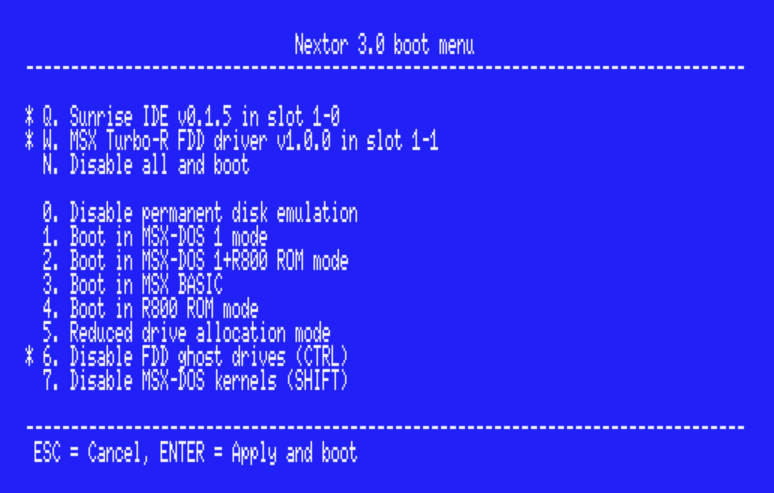
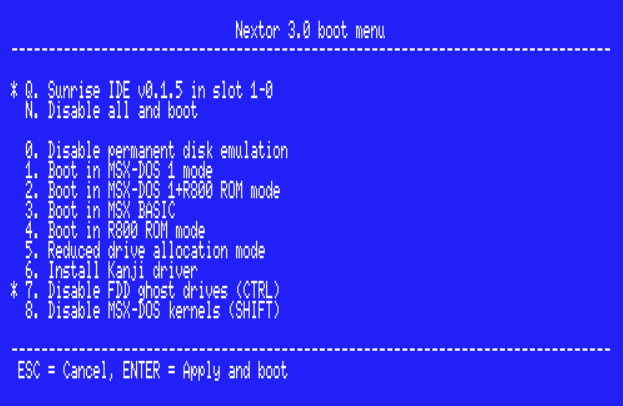
Add the "6" boot key: install the Kanji driver at boot time
Pressing 6 while booting makes the kernel do what disks patched with
KMODE.COM did: "CALL KANJI:CALL ANK" is executed through the BASIC
interpreter before the boot sector / NEXTOR.SYS are read, so the Kanji
driver gets installed (and its work area reserved) while the screen is
left in ANK mode; then the normal boot sequence continues. It works in
both MSX-DOS 2 and MSX-DOS 1 modes, and a missing Kanji driver is
silently ignored.

The new KANJI_BOOT routine lives in drv.mac, which is linked at 7700h
into both bank 0 and bank 3, so the same code serves both boot paths
(NO_TEXT in init.mac and A59F3 in dos1ker.mac). It hooks H.ERRO with a
far call into the kernel and runs the statements via NEWSTT; the
trailing ERROR statement (or the error raised by CALL KANJI itself)
brings control back, the hook is restored, and the boot resumes at the
caller's KANJI_BOOT_RESUME label. If the driver lowered HIMEM, HIMSAV
(F349h, also the DOS 1 "disk system bottom") is lowered by the same
amount so neither the DOS environment nor Disk BASIC reuse that memory.
BASIC must run with bank 0/3 paged (the 4004h statement entry of every
bank is bank 0's), which is why the routine can't live in another bank.

The key gets the same support as the existing ones:

- Boot menu: new "6. Install Kanji driver" entry; CTRL and SHIFT move
  to 7 and 8.
- One-time RAM boot keys / NEXBOOT: byte 0 bit 6, already what NEXBOOT
  writes for "6".
[…]

Changed region(s): [[0.0, 0.1773, 0.5795, 0.798], [0.0305, 0.8571, 0.9759, 0.9458], [0.0305, 0.0296, 0.9759, 0.1478]]

diff --git a/docker/README.md b/docker/README.md
@@ -6,7 +6,7 @@ A Docker image that bundles everything needed to build Nextor, develop Nextor dr
 - **[SDCC](https://sdcc.sourceforge.net/)** - the Z80 C compiler (Debian's `sdcc` 4.2.0).
 - **mknexrom** - combines a kernel base file with a driver into a ROM.
 - **make**, **binutils** (`objcopy`), **bash**, **mtools** (`mformat`/`mcopy`, used to build the tools disk image), **zip** (used to build the tools zip archive).
-- The **Nextor SDK** (asm + C, including ready to copy **driver/tool project templates**) and the **six kernel base-file variants** built from this repository's source.
+- The **Nextor SDK** (asm + C, including ready to copy **driver/tool project templates**) and the **twelve kernel base-file variants** built from this repository's source.
 
 **Platform:** the image is **multi-arch** - `linux/amd64` and `linux/arm64` (native on Apple Silicon and arm64 servers). Everything below assumes you have Docker installed.
 
@@ -224,7 +224,7 @@ The easiest way is the **`docker/make.sh`** wrapper: it mounts the root for you,
 git clone https://github.com/Konamiman/Nextor && cd Nextor
 
 docker/make.sh kernel              # build the default kernel base file
-docker/make.sh kernel everything   # all six kernel variants
+docker/make.sh kernel everything   # all twelve kernel variants
 docker/make.sh kernel clean
 docker/make.sh nextor_sys          # build NEXTOR.SYS
 docker/make.sh all                 # one variant of every part
@@ -239,14 +239,14 @@ docker/make.sh all distclean       # remove every build artifact, incl. bin/
 
 | `docker/make.sh ...` | Builds |
 |---|---|
-| `kernel` | the kernel base file(s) → `bin/kernel-base/Nextor-<version>.base[<suffix>].dat`; `everything` = all six variants |
+| `kernel` | the kernel base file(s) → `bin/kernel-base/Nextor-<version>.base[<suffix>].dat`; `everything` = all twelve variants |
 | `nextor_sys` | `NEXTOR.SYS` (+ `.japanese`) |
 | `tools` | all command-line `.COM` utilities - both the assembler tools (`source/tools`) and the C tools (`source/tools/C`) |
 | `tools/C` | just the C tools |
-| `drivers` | the standalone ROMs (ASCII8 + ASCII16) → `bin/drivers/`; `everything` = all six variants of each; `ram-example` = the opt-in example RAM disk driver (`.drv` → `bin/drivers/`) |
+| `drivers` | the standalone ROMs (ASCII8 + ASCII16) → `bin/drivers/`; `everything` = all twelve variants of each; `ram-example` = the opt-in example RAM disk driver (`.drv` → `bin/drivers/`) |
 | `all` | the umbrella Makefile: bare = one variant of every part; `everything` = all kernel + standalone-ROM variants + NEXTOR.SYS + all tools; `tools-disk` = the tools disk image; `tools-zip` = the tools zip archive; `tools-all` = both; `clean` / `distclean` |
 
-`make.sh all everything` builds the complete release matrix: all six kernel base variants, both standalone ROMs (ASCII8/ASCII16) for each of those six variants, NEXTOR.SYS, and every command-line tool. `make.sh all distclean` removes all of that plus the source-tree intermediates.
+`make.sh all everything` builds the complete release matrix: all twelve kernel base variants, both standalone ROMs (ASCII8/ASCII16) for each of those twelve variants, NEXTOR.SYS, and every command-line tool. `make.sh all distclean` removes all of that plus the source-tree intermediates.
 
 `make.sh all tools-disk` builds NEXTOR.SYS and all the command line tools, then packs them into `bin/tools/nextor.dsk`, a 360K FAT12 disk image created with `mformat`/`mcopy`, carrying the same MSX-DOS 2 style boot sector that the built-in FORMAT command creates (so it boots in MSX-DOS 1 mode too). Files not built by this repository, like `COMMAND2.COM` (needed for the disk to be bootable), are added with the `EXTRA_FILES` variable, e.g. `EXTRA_FILES=COMMAND2.COM,MSXDOS.SYS,COMMAND.COM`; relative paths are resolved against the repository root (see the `tools-disk` target in `source/tools/Makefile` for the details).
 
@@ -298,7 +298,8 @@ Everything lives under `/opt/nextor`:
 │   ├── kernel_base.SHIFT_INV.dat
 │   ├── kernel_base.CTRL_INV.dat
 │   ├── kernel_base.NO_UNDOC.SHIFT_INV.dat
-│   └── kernel_base.NO_UNDOC.CTRL_INV.dat
+│   ├── kernel_base.NO_UNDOC.CTRL_INV.dat
+│   └── kernel_base[<variant>].KANJI_INV.dat the same six, "6" key inverted
 ├── sdk/            asm/ (constants, macros, code, chgbnk), C/ (includes, code)
 │                   and templates/ (the driver/ and tool/ project templates)
 └── manifest.json   every baked-in component version (JSON)
@@ -314,14 +315,14 @@ Recipes (and you) can rely on these being set inside the container:
 |---|---|---|
 | `NEXTOR_VERSION` | e.g. `3.0.0-beta1` | the kernel version baked in |
 | `NEXTOR_BASE` | `.../kernel_base/kernel_base.dat` | default base file for `mknexrom` |
-| `NEXTOR_KERNEL_BASE_DIR` | `.../kernel_base` | directory of the six base files |
+| `NEXTOR_KERNEL_BASE_DIR` | `.../kernel_base` | directory of the twelve base files |
 | `NEXTOR_SDK` | `.../sdk` | SDK root (pass to N80 as `--include-directory`) |
 | `NEXTOR_SDK_ASM` / `NEXTOR_SDK_C` | `.../sdk/asm`, `.../sdk/C` | asm / C subtrees |
 | `N80` `LK80` `LB80` `MKNEXROM` `SDCC` | absolute tool paths | for Makefiles that prefer explicit paths |
 
 ### Variants
 
-The six base file **variants** differ by two independent axes:
+The twelve base file **variants** differ by three independent axes:
 
 | Suffix | Meaning |
 |---|---|
@@ -329,10 +330,11 @@ The six base file **variants** differ by two independent axes:
 | `.NO_UNDOC` | no undocumented opcodes - safe on Z180-based MSX (e.g. Victor HC-95) |
 | `.SHIFT_INV` | SHIFT-at-boot behaviour inverted |
 | `.CTRL_INV` | CTRL-at-boot behaviour inverted |
+| `.KANJI_INV` | "6"-at-boot behaviour inverted: the Kanji driver is installed at boot time unless "6" is pressed |
 
-(`NO_UNDOC` combines with either key inversion, giving the two `.NO_UNDOC.*_INV` files.)
+(`NO_UNDOC` combines with either key inversion, giving the two `.NO_UNDOC.*_INV` files; and each of these six files exists with and without the `.KANJI_INV` suffix, which always goes last.)
 
-**Note:** The `.SHIFT_INV` / `.CTRL_INV` variants are a convenience: `mknexrom` can flip the boot keys on the *default* (or `.NO_UNDOC`) base at ROM-assembly time with `/k:<hex>` (LSB = byte 0, MSB = byte 1; e.g. `/k:1002` inverts SHIFT and "1"). The `NO_UNDOC` axis is different: it changes the assembled code, so it genuinely requires its own base file.
+**Note:** The `.SHIFT_INV` / `.CTRL_INV` / `.KANJI_INV` variants are a convenience: `mknexrom` can flip the boot keys on the *default* (or `.NO_UNDOC`) base at ROM-assembly time with `/k:<hex>` (LSB = byte 0, MSB = byte 1; e.g. `/k:1002` inverts SHIFT and "1", `/k:0040` inverts "6"). The `NO_UNDOC` axis is different: it changes the assembled code, so it genuinely requires its own base file.
 
 ### Naming conventions
 
@@ -368,7 +370,7 @@ docker build -f docker/Dockerfile \
 
 Why pass `NEXTOR_VERSION` at all? It stamps the version into the **[OCI labels](https://github.com/opencontainers/image-spec/blob/main/annotations.md)** (standardised key-value metadata baked into the image and readable later with `docker inspect`) and the baked **`NEXTOR_VERSION`** env var. Those are `LABEL`/`ENV` instructions, which accept only literals or build args - they can't `cat` the file the way a `RUN` can (`manifest.json` *is* written by a `RUN`, and the SDK's `nextor-kernel-version.txt` is produced by the kernel build). That's the whole reason the value is injected from outside, and why the wrapper exists. It defaults to `unknown` if omitted.
 
-The build is fully reproducible from source: it downloads pinned Nestor80 releases (per target arch), installs SDCC 4.2.0 from Debian's apt, compiles `mknexrom` from `buildtools/sources`, and builds all six kernel base files via `make -C source/kernel everything`.
+The build is fully reproducible from source: it downloads pinned Nestor80 releases (per target arch), installs SDCC 4.2.0 from Debian's apt, compiles `mknexrom` from `buildtools/sources`, and builds all twelve kernel base files via `make -C source/kernel everything`.
 
 ### Build arguments
 
@@ -400,7 +402,7 @@ docker/test.sh                 # local 'nextor-dev' build, else the official lat
 docker/test.sh my-other-tag    # or any explicit tag
 ```
 
-`test.sh` runs inside the container as a login shell and checks: every tool runs (incl. a real N80→LK80 link and an `sdcc -mz80` compile), all six base variants are present, the baked `NEXTOR_VERSION` matches the built kernel and `manifest.json`, and both project templates (`driver`, `tool`) build end-to-end when copied verbatim. It exits non-zero on any failure, so it doubles as a CI gate - and indeed the **`Image CI`** workflow (`.github/workflows/image-ci.yaml`) runs exactly this (`build.sh` → `test.sh`, no push) on every pull request that touches an image input, so the build and the 14 checks are verified before merge.
+`test.sh` runs inside the container as a login shell and checks: every tool runs (incl. a real N80→LK80 link and an `sdcc -mz80` compile), all twelve base variants are present, the baked `NEXTOR_VERSION` matches the built kernel and `manifest.json`, and both project templates (`driver`, `tool`) build end-to-end when copied verbatim. It exits non-zero on any failure, so it doubles as a CI gate - and indeed the **`Image CI`** workflow (`.github/workflows/image-ci.yaml`) runs exactly this (`build.sh` → `test.sh`, no push) on every pull request that touches an image input, so the build and the 14 checks are verified before merge.
 
 **2. Move it to another machine** without a registry, via a tarball:
 

diff --git a/docs/Nextor 3.0 What's New.md b/docs/Nextor 3.0 What's New.md
@@ -14,19 +14,21 @@
 
 [2.4. The boot menu](#24-the-boot-menu)
 
-[2.5. One drive letter per active partition/offline device at boot](#25-one-drive-letter-per-active-partitionoffline-device-at-boot)
+[2.5. The Kanji driver can be installed at boot time](#25-the-kanji-driver-can-be-installed-at-boot-time)
 
-[2.6. Drivers are now distributed separately](#26-drivers-are-now-distributed-separately)
+[2.6. One drive letter per active partition/offline device at boot](#26-one-drive-letter-per-active-partitionoffline-device-at-boot)
 
-[2.7. Z180-compatible builds](#27-z180-compatible-builds)
+[2.7. Drivers are now distributed separately](#27-drivers-are-now-distributed-separately)
 
-[2.8. Better boot error messages](#28-better-boot-error-messages)
+[2.8. Z180-compatible builds](#28-z180-compatible-builds)
 
-[2.9. MSX-DOS 1 mode can boot from any drive](#29-msx-dos-1-mode-can-boot-from-any-drive)
+[2.9. Better boot error messages](#29-better-boot-error-messages)
 
-[2.10. New and changed tools and commands](#210-new-and-changed-tools-and-commands)
+[2.10. MSX-DOS 1 mode can boot from any drive](#210-msx-dos-1-mode-can-boot-from-any-drive)
 
-[2.11. The new COMMAND3.COM command interpreter](#211-the-new-command3com-command-interpreter)
+[2.11. New and changed tools and commands](#211-new-and-changed-tools-and-commands)
+
+[2.12. The new COMMAND3.COM command interpreter](#212-the-new-command3com-command-interpreter)
 
 [3. Information for application developers](#3-information-for-application-developers)
 
@@ -88,31 +90,35 @@ A brand new driver for the floppy disk controller built into the MSX Turbo-R com
 
 Pressing the N key while the machine boots opens the new boot menu, which lets you enable or disable each of the Nextor 3 kernels present in the machine, and turn the numeric boot keys on or off, without having to keep the corresponding keys pressed while booting. See _[2.10. Boot keys and the boot menu](Nextor%203.0%20User%20Manual.md#210-boot-keys-and-the-boot-menu)_.
 
-### 2.5. One drive letter per active partition/offline device at boot
+### 2.5. The Kanji driver can be installed at boot time
+
+A new boot key, 6, makes Nextor install the Kanji driver (the equivalent of `CALL KANJI` followed by `CALL ANK` in BASIC, so the driver is installed but the screen is left in ANK mode) before the DOS environment is loaded, in both MSX-DOS 2 and MSX-DOS 1 modes; this is what disks patched with `KMODE.COM` did. Like the other boot keys, it can be selected in the boot menu, set via the one-time boot keys mechanism, and inverted in the ROM (so that the driver is installed unless the key is pressed), either with `mknexrom /k:0040` or by using one of the new "KANJI_INV" kernel variants. See _[2.10. Boot keys and the boot menu](Nextor%203.0%20User%20Manual.md#210-boot-keys-and-the-boot-menu)_.
+
+### 2.6. One drive letter per active partition/offline device at boot
 
 At boot time Nextor 2 assigned one drive letter per storage device found, mapped to its first suitable partition. Nextor 3 instead assigns one drive letter to every FAT12 or FAT16 partition flagged as active on every device (in MSX-DOS 1 mode, only to MSX-DOS 1 compatible partitions: FAT12 with three or less sectors per FAT). A device that has suitable partitions but none of them flagged as active still gets one drive letter, mapped to its first suitable partition, as in Nextor 2.
 
 The handling of offline devices at boot has been revised too: removable devices get a drive letter even if no medium is inserted, while fixed devices that are offline don't get any. Devices that are online but don't hold any mappable partition also get one drive letter. Drives assigned in these last two ways have no partition attached initially: accessing them returns an error, and a partition is searched automatically on each access until one is found (e.g. after the device is partitioned, or after a medium is inserted). See _[3.2. Booting Nextor](Nextor%203.0%20User%20Manual.md#32-booting-nextor)_.
 
-### 2.6. Drivers are now distributed separately
+### 2.7. Drivers are now distributed separately
 
 The Nextor repository no longer contains the drivers for specific hardware, and no longer builds ready-to-use kernel ROMs for them: it builds only the Nextor kernel base file. Drivers are now developed and distributed independently, combining the driver code with the kernel base file to produce the final ROM; a RAM-loadable driver file, when applicable, is instead obtained by assembling the driver code on its own.
 
 The drivers that were part of Nextor 2 now live in their own git repositories, but driver developers are free to distribute their work in any other way (a dedicated web site, plain downloadable binaries, etc.). The list of known drivers and where to get each of them is maintained in _[Nextor 3.0 Known Drivers](Nextor%203.0%20Known%20Drivers.md)_.
 
-### 2.7. Z180-compatible builds
+### 2.8. Z180-compatible builds
 
 The kernel can now be built with the `NO_UNDOC_CPU_INSTRUCTIONS` option, which avoids all the undocumented Z80 instructions so that the resulting kernel also works on machines with a Z180 processor. See [the main README file](../README.md) for how to build the kernel.
 
-### 2.8. Better boot error messages
+### 2.9. Better boot error messages
 
 When the DOS environment fails to load at boot time, NEXTOR.SYS no longer keeps asking the user to insert the proper disk or drops silently into BASIC: a proper error message, such as "Command interpreter not found" or "Incompatible DOS version", is printed as part of the initial BASIC prompt. Application programs can take advantage of the underlying mechanism too; see _[7.3. DOS environment load errors](Nextor%203.0%20Programmers%20Reference.md#73-dos-environment-load-errors)_ in the programmers reference.
 
-### 2.9. MSX-DOS 1 mode can boot from any drive
+### 2.10. MSX-DOS 1 mode can boot from any drive
 
 The original MSX-DOS 1 kernel only ever tried to boot from drive A:, so if the disk in A: wasn't bootable the system dropped to Disk BASIC, and `CALL SYSTEM` behaved the same way. When booting in MSX-DOS 1 mode, Nextor 3 instead scans all the drives in order and boots from the first one holding a disk with a valid boot sector; that drive becomes the default drive, so `MSXDOS.SYS` and `COMMAND.COM` are loaded from it. This matters in Nextor because the internal floppy disk drive isn't necessarily drive A:, e.g. when other storage devices take the first drive letters. See _[3.2.1. Booting in DOS 1 mode](Nextor%203.0%20User%20Manual.md#321-booting-in-dos-1-mode)_ in the user manual.
 
-### 2.10. New and changed tools and commands
+### 2.11. New and changed tools and commands
 
 * New [`DRVROP.COM`](Nextor%203.0%20User%20Manual.md#3413-drvrop-the-driver-operations-tool) ("driver operations") command line tool, and new [`CALL IDRIVER`](Nextor%203.0%20User%20Manual.md#3612-the-call-idriver-command) and [`CALL UDRIVER`](Nextor%203.0%20User%20Manual.md#3613-the-call-udriver-command) BASIC commands: they install and uninstall drivers loaded in RAM (see _[2.2. Drivers loadable in RAM](#22-drivers-loadable-in-ram)_).
 
@@ -122,7 +128,7 @@ The original MSX-DOS 1 kernel only ever tried to boot from drive A:, so if the d
 
 * Since logical units don't exist anymore, the tools and commands that used to take or display a logical unit number no longer do.
 
-### 2.11. The new COMMAND3.COM command interpreter
+### 2.12. The new COMMAND3.COM command interpreter
 
 Nextor 3 introduces its own command interpreter: `COMMAND3.COM`. It is based on COMMAND 2.44 (so everything you know from it applies: internal commands, aliases, command line editing and history, batch file enhancements, the HELP command, etc.) but adds new features specific to Nextor 3:
 

diff --git a/docs/Nextor 3.0 User Manual.md b/docs/Nextor 3.0 User Manual.md
@@ -329,6 +329,8 @@ The boot time configuration of Nextor can be modified by keeping pressed some sp
 
 *  **5**: Make Nextor assign only one drive letter per Nextor driver, instead of the normal behavior of assigning one drive per suitable active partition found (see _[3.2. Booting Nextor](#32-booting-nextor)_). Drivers are informed of this request and could act on it, see _[4.5.3. Driver query 3: Get driver initialization parameters](Nextor%203.0%20Driver%20Development%20Guide.md#453-driver-query-3-get-driver-initialization-parameters)_.
 
+*  **6**: Install the Kanji driver before loading the DOS environment, in the same way as disks patched with the `KMODE.COM` tool did: the equivalent of `CALL KANJI` followed by `CALL ANK` is executed in BASIC, so the driver is installed (and the memory it needs is reserved, which is very difficult to do once the DOS environment is loaded) but the screen is left in ANK mode. This works in both MSX-DOS 2 and MSX-DOS 1 modes, and the boot process just continues normally if the computer doesn't have a Kanji driver (the failure of `CALL KANJI` is silently ignored).
+
 * **CTRL**: The state of this key is passed to MSX-DOS kernels on initialization. Typically this will cause the internal floppy disk drive to disable its second "ghost" drive, freeing some extra memory, especially in MSX-DOS 1 mode. 
 
 *  **SHIFT**: Prevent MSX-DOS kernels from booting, but allow Nextor kernels to boot normally. This is useful to disable the internal floppy disk drive in order to get some extra TPA memory, especially in MSX-DOS 1 mode.
@@ -348,6 +350,8 @@ Example: if your Nextor kernel is in primary slot 1, press Q to prevent it from 
 
 ![Nextor boot menu](img/BootMenu.png)
 
+In the menu, the numeric keys 0 to 6 toggle the boot keys with the same numbers, while 7 toggles the CTRL key and 8 toggles the SHIFT key.
+
 If you want to completely disable all Nextor kernels, press N at boot time to show the menu, release it, and press it again. This is useful when the kernel ROM must be updated from a storage device controlled by a non-Nextor controller (e.g. the internal floppy disk drive).
 
 #### 2.10.1. Boot key inverters
@@ -360,7 +364,7 @@ Here's how bits are assigned to each key:
 
 * First byte (offset 512):
 
-  * Bits 1 to 5: keys 1 to 5
+  * Bits 1 to 6: keys 1 to 6
 
 * Second byte (offset 513):
 
@@ -376,14 +380,15 @@ If you use `mknexrom` you need to supply a 16 bit hexadecimal value with the `/k
   * 3: 0008
   * 4: 0010
   * 5: 0020
+  * 6: 0040
   * CTRL: 2000
   * SHIFT: 1000
 
-e.g. `/k:3002` to invert the 1, CTRL and SHIFT keys.
+e.g. `/k:3002` to invert the 1, CTRL and SHIFT keys, or `/k:0040` to invert the 6 key (so that the Kanji driver is installed at boot time unless the key is pressed).
 
 The boot menu respects the key inversion encoded in the ROM, and will show inverted keys as already switched on (you can of course switch them off before continuing with the boot). For example, the boot menu screenshot displayed above is for a ROM that has the CTRL key inverted.
 
-The releases section of the Nextor repository and the development Docker image contain "CTRL_INV" and "SHIFT_INV" variants of the kernel base file; this is for convenience, especially for driver developers that don't use `mknexrom` for the build process.
+The releases section of the Nextor repository and the development Docker image contain "CTRL_INV" and "SHIFT_INV" variants of the kernel base file (with the CTRL and SHIFT keys inverted, respectively), as well as "KANJI_INV" variants (with the 6 key inverted) of these and of the non-inverted files; this is for convenience, especially for driver developers that don't use `mknexrom` for the build process.
 
 #### 2.10.2. One-time boot keys
 

diff --git a/README.md b/README.md
@@ -61,9 +61,9 @@ There are a number of makefiles that will take care of building the different co
 | What do you want to build? | Makefile directory | Target | Result |
 | --- | --- | --- | --- |
 | Kernel base file (the input for `mknexrom` to produce complete kernel ROMs) | `source/kernel` | none | `bin/kernel-base/Nextor-<version>.base.dat` |
-| Kernel base file, all six build variants¹ | `source/kernel` | `everything` | `bin/kernel-base/Nextor-<version>.base[.<variant>].dat`, six files |
+| Kernel base file, all twelve build variants¹ | `source/kernel` | `everything` | `bin/kernel-base/Nextor-<version>.base[.<variant>].dat`, twelve files |
 | Standalone ROMs² (ASCII8 and ASCII16) | `source/drivers` | none | `bin/drivers/Nextor-<version>.StandaloneASCII8.ROM` and `...ASCII16.ROM` |
-| Standalone ROMs², all six build variants¹ | `source/drivers` | `everything` | `bin/drivers/Nextor-<version>.StandaloneASCII{8,16}[.<variant>].ROM`, twelve files |
+| Standalone ROMs², all twelve build variants¹ | `source/drivers` | `everything` | `bin/drivers/Nextor-<version>.StandaloneASCII{8,16}[.<variant>].ROM`, twenty-four files |
 | Example RAM-loadable driver | `source/drivers` | `ram-example` | `bin/drivers/ram-driver-example.drv` |
 | `NEXTOR.SYS`, plus its Japanese-messages variant | `source/nextor_sys` | none | `bin/tools/NEXTOR.SYS` and `bin/tools/NEXTOR.SYS.japanese` |
 | `COMMAND3.COM`, the command interpreter | `source/commandcom` | none | `bin/tools/COMMAND3.COM` |
@@ -72,7 +72,7 @@ There are a number of makefiles that will take care of building the different co
 | Tools disk image³ | `source/tools` | `tools-disk` | `bin/tools/nextor.dsk` |
 | Tools zip archive⁴ | `source/tools` | `tools-zip` | `bin/tools/tools.zip` |
 
-¹ The six variants are: default, `INVERT_SHIFT` and `INVERT_CTRL`, each with and without `NO_UNDOC_CPU_INSTRUCTIONS`. See the comments at the beginning of the kernel makefile for the details.
+¹ The twelve variants are: default, `INVERT_SHIFT` and `INVERT_CTRL`, each with and without `NO_UNDOC_CPU_INSTRUCTIONS`, and each of these six with and without `INVERT_KANJI` (the "6" boot key inverted, so the Kanji driver is installed at boot time unless the key is pressed). See the comments at the beginning of the kernel makefile for the details.
 
 ² A standalone ROM is a full usable ROM containing the Nextor kernel and a dummy driver that doesn't handle any hardware. The `source/drivers` makefile builds the kernel base file too (by recursing into `source/kernel`), unless the `NEXTOR_BASE` variable points it to a pre-built one.
 
@@ -85,7 +85,7 @@ Additionally, an "umbrella" makefile in `source` invokes the other makefiles in 
 | What do you want to build? | Target | Result |
 | --- | --- | --- |
 | Everything with a default target above: kernel base file, standalone ROMs, `NEXTOR.SYS`, `COMMAND3.COM` and all the command line tools | none | `bin/kernel-base`, `bin/drivers`, `bin/tools` |
-| The same, but with the kernel base file and the standalone ROMs in all six variants¹ | `everything` | `bin/kernel-base`, `bin/drivers`, `bin/tools` |
+| The same, but with the kernel base file and the standalone ROMs in all twelve variants¹ | `everything` | `bin/kernel-base`, `bin/drivers`, `bin/tools` |
 | `NEXTOR.SYS`, `COMMAND3.COM` and all the command line tools, then the disk image³ | `tools-disk` | `bin/tools`, including `nextor.dsk` |
 | All the command line tools, then the zip archive⁴ | `tools-zip` | `bin/tools`, including `tools.zip` |
 | `NEXTOR.SYS`, `COMMAND3.COM` and all the command line tools, then both the disk image³ and the zip archive⁴ | `tools-all` | `bin/tools`, including `nextor.dsk` and `tools.zip` |

diff --git a/sdk/templates/driver/README.md b/sdk/templates/driver/README.md
@@ -53,13 +53,16 @@ The constants and helper routines you'll need are in the SDK: `asm/constants/dri
 
 ## Kernel variants
 
-`NEXTOR_BASE` selects which kernel your driver is fused with. There are six base-file variants (in the dev image they live in `/opt/nextor/kernel_base/`; the repository build names them `Nextor-X.Y.Z.base[<suffix>].dat`):
+`NEXTOR_BASE` selects which kernel your driver is fused with. There are twelve base-file variants (in the dev image they live in `/opt/nextor/kernel_base/`; the repository build names them `Nextor-X.Y.Z.base[<suffix>].dat`):
 
 ```text
 kernel_base.dat                    (default)
 kernel_base.NO_UNDOC.dat           (Z180-safe, no undocumented opcodes)
 kernel_base.SHIFT_INV.dat          kernel_base.CTRL_INV.dat
 kernel_base.NO_UNDOC.SHIFT_INV.dat kernel_base.NO_UNDOC.CTRL_INV.dat
+kernel_base[<suffix>].KANJI_INV.dat (each of the above with the "6" boot key
+                                   inverted: the Kanji driver is installed
+                                   at boot time unless the key is pressed)
 ```
 
 For a `.NO_UNDOC.` base, build with `make NO_UNDOC=1 NEXTOR_BASE=...` so the driver stays undoc-free too. Use the `ld_`, `cp_`, `or_`, ... macros from `undoc.inc` (already included) anywhere you'd otherwise touch `ixh/ixl/iyh/iyl`.

diff --git a/docs/Nextor 3.0 Programmers Reference.md b/docs/Nextor 3.0 Programmers Reference.md
@@ -1077,7 +1077,7 @@ The one-time boot keys mechanism (see _[2.10.2. One-time boot keys](Nextor%203.0
 | A114h   | V | U | T | S | R | Q | P | O |
 | A115h   |   |   |CTRL|SHFT| Z | Y | X | W |
 
-Note that currently not all keys are actually used by Nextor at boot time (e.g. numbers 6 to 9); but if any future version of Nextor makes use of any of the currently unused keys in the table, the key status will be expected to be at the position defined in this table when using the one-time boot keys mechanism.
+Note that currently not all keys are actually used by Nextor at boot time (e.g. numbers 7 to 9); but if any future version of Nextor makes use of any of the currently unused keys in the table, the key status will be expected to be at the position defined in this table when using the one-time boot keys mechanism.
 
 ### 7.2. Disk emulation mode
 
